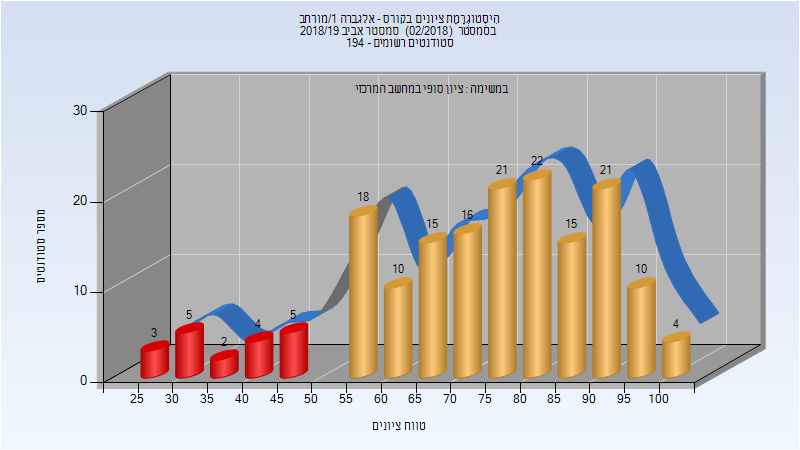
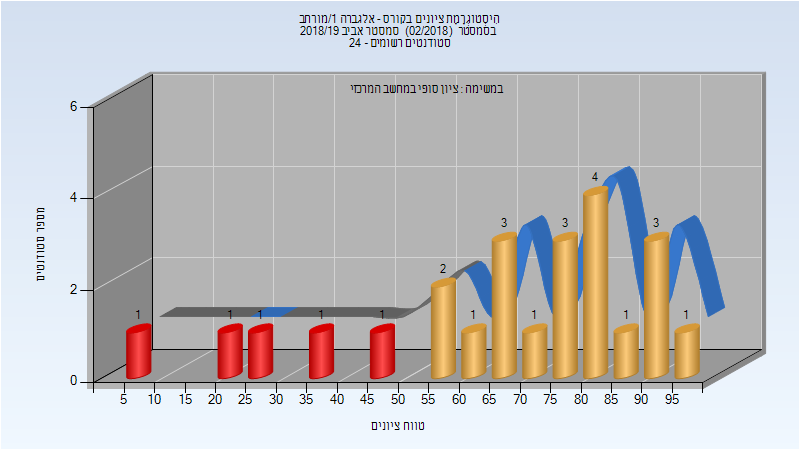
Deploy michael-maltsev/technion-histograms to github.com/michael-maltsev/technion-histograms.git:gh-pages

diff --git a/104016/index.html b/104016/index.html
@@ -2088,8 +2088,12 @@
 </thead>
 <tbody>
 <tr>
-<td>מלק עליזה</td>
+<td>אבידן דניאלה</td>
 <td>מרצה - אחראי מקצוע</td>
+</tr>
+<tr>
+<td>ולך מרים</td>
+<td>מרצה</td>
 </tr>
 </tbody>
 </table>
@@ -2213,13 +2217,13 @@
 </thead>
 <tbody>
 <tr>
-<td>171</td>
-<td>152/19</td>
-<td>89</td>
-<td>27</td>
-<td>100</td>
-<td>73.205</td>
-<td>76</td>
+<td>24</td>
+<td>19/5</td>
+<td>79</td>
+<td>9</td>
+<td>98</td>
+<td>66.75</td>
+<td>73.5</td>
 </tr>
 </tbody>
 </table>

diff --git a/104016/README.md b/104016/README.md
@@ -661,7 +661,8 @@
 
 | איש סגל | תפקיד |
 | ---- | ---- |
-| מלק עליזה | מרצה - אחראי מקצוע |
+| אבידן דניאלה | מרצה - אחראי מקצוע |
+| ולך מרים | מרצה |
 
 ### מבחן מועד א'
 
@@ -701,7 +702,7 @@
 
 | סטודנטים | עברו/נכשלו | אחוז עוברים | ציון מינימלי | ציון מקסימלי | ממוצע | חציון |
 | ---- | ---- | ---- | ---- | ---- | ---- | ---- |
-| 171 | 152/19 | 89 | 27 | 100 | 73.205 | 76 |
+| 24 | 19/5 | 79 | 9 | 98 | 66.75 | 73.5 |
 
 ## חורף 2019-2020
 
